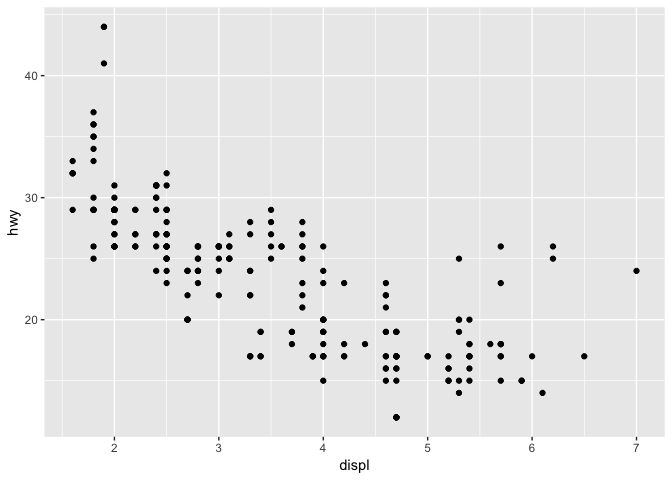
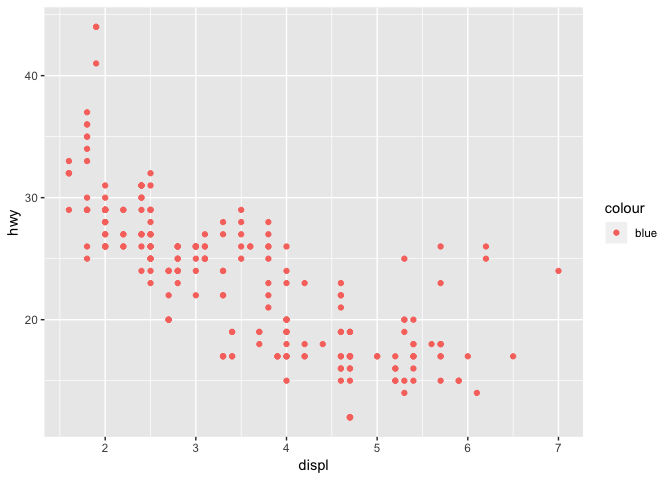
Did exercises up to right before section 3.4

diff --git a/ch1_explore/R_DS_CH1.md b/ch1_explore/R_DS_CH1.md
@@ -2,60 +2,93 @@ R Data Science Chapter 1
 ================
 Shaun Jackson
 
--   [Data visualisation](#data-visualisation)
-    -   [Data we are working with](#data-we-are-working-with)
-    -   [Plotting `mpg` by putting `displ` on the x-axis and `hwy` on the y-axis:](#plotting-mpg-by-putting-displ-on-the-x-axis-and-hwy-on-the-y-axis)
+-   [Prerequisites](#prerequisites)
+-   [3.2.4 Exercise Solutions](#exercise-solutions)
+-   [3.3.1 Exercise](#exercise)
 
-The below notes are from Hadley Wickham's R for Data Science. This is a summary of my main takeaways from the sections that I thought were the most important
+The below notes are from Hadley Wickham's R for Data Science.
 
-Data visualisation
-==================
+My Notes are organized as follows:
 
--   The section of the book teaches us how to use ggplot2. In order to make sure all the required packages are available:
+1.  Exercise Solutions
+
+2.  Summary of the chapter and my main takeaways
+
+Prerequisites
+=============
+
+To start, we must make sure we have the **tidyverse** package loaded into our environment.
 
 ``` r
 library(tidyverse)
 ```
 
-Data we are working with
-------------------------
+Loading the tidyverse package will provide us with `mpg`, a tibble that will enable our analyses.
 
-We are using the **mpg** dataframe that is found within ggplot2.
+3.2.4 Exercise Solutions
+========================
 
-``` r
-mpg
-```
+1.  Run `ggplot(data = mpg)`. What do you see?
 
-    ## # A tibble: 234 x 11
-    ##    manufacturer model displ  year   cyl trans drv     cty   hwy fl    cla…
-    ##    <chr>        <chr> <dbl> <int> <int> <chr> <chr> <int> <int> <chr> <ch>
-    ##  1 audi         a4      1.8  1999     4 auto… f        18    29 p     com…
-    ##  2 audi         a4      1.8  1999     4 manu… f        21    29 p     com…
-    ##  3 audi         a4      2    2008     4 manu… f        20    31 p     com…
-    ##  4 audi         a4      2    2008     4 auto… f        21    30 p     com…
-    ##  5 audi         a4      2.8  1999     6 auto… f        16    26 p     com…
-    ##  6 audi         a4      2.8  1999     6 manu… f        18    26 p     com…
-    ##  7 audi         a4      3.1  2008     6 auto… f        18    27 p     com…
-    ##  8 audi         a4 q…   1.8  1999     4 manu… 4        18    26 p     com…
-    ##  9 audi         a4 q…   1.8  1999     4 auto… 4        16    25 p     com…
-    ## 10 audi         a4 q…   2    2008     4 manu… 4        20    28 p     com…
-    ## # ... with 224 more rows
+    -   Running `ggplot(data = mpg)` produces not output that I can see. It looks like a blank graph.
 
--   Note: mpg is a tibble. Tibbles are
+2.  How many rows are in `mpg`? How many columns?
 
-> "a modern reimagining of the data.frame." "Tibbles are data.frames that are lazy and surly: they do less" "and complain more." - from <https://tibble.tidyverse.org>
+    -   There are 234 rows and 11 columns. (Used `nrow()` and `ncol()`).
 
-Plotting `mpg` by putting `displ` on the x-axis and `hwy` on the y-axis:
-------------------------------------------------------------------------
+3.  What does the `drv` variable describe?
 
-``` r
-ggplot(data = mpg) +
-  geom_point(mapping = aes(x = displ, y = hwy))
-```
+    -   After `?mpg`, the values "f = front-wheel drive, r = rear wheel drive, 4 = 4wd". They describe a way to group the cars.
 
-![](R_DS_CH1_files/figure-markdown_github/unnamed-chunk-3-1.png)
+4.  Make a scatterplot of `hwy` vs `cyl`.
 
-In the above plot,
+    ``` r
+    ggplot(mpg, aes(x = hwy, y = cyl)) + geom_point()
+    ```
 
--   `geom_point()` produces points on the graph.
--   Define x and y axes by setting the x and y parameters within the aesthetic function `aes()` to `x = displ` and `y = hwy`.
+    ![](R_DS_CH1_files/figure-markdown_github/unnamed-chunk-2-1.png)
+
+5.  What happens if you make a scatterplot? Why is the plot not useful?
+
+    -   The plot is not useful because the scales of the coordinate axes and the points do not have any clear correlations.
+
+3.3.1 Exercise
+==============
+
+1.  What's gone wrong with this code? Why are points not blue?
+
+    ``` r
+    ggplot(data = mpg) +
+      geom_point(mapping = aes(x = displ, y = hwy, color = "blue"))
+    ```
+
+    ![](R_DS_CH1_files/figure-markdown_github/unnamed-chunk-3-1.png)
+
+    -   The above code does not change the appearance of the plot. Instead, it changes the aesthetics layer of ggplot. To be more clear, the **value** of blue is assigned to all rows in the dataset, and being plotted with that characteristic. The appearance of the plot is not changed, the data is being processed, grouping all variables in the plot with a value of blue. In order to change the appearance, the data must **first** be plotted, and then the color can be assigned *outside* of the `aes()` function.
+
+2.  Which variables in `mpg` are categorical? Which variables are continuous?
+
+    -   The categorical variables in `mpg` are `model`, `year`, `cyl`, `trans`, `drv`, `fl`, and `class`.
+
+3.  Map a continuous variable to `color`, `size`, and `shape`. How do these aesthetics behave differently for categorical vs. continuous variables?
+
+    ``` r
+    ggplot(mpg) + geom_point(aes(x = displ, y = hwy, color = cty))
+    ```
+
+    ![](R_DS_CH1_files/figure-markdown_github/unnamed-chunk-4-1.png)
+
+    ``` r
+    ggplot(mpg) + geom_point(aes(x = displ, y = hwy, size = cty))
+    ```
+
+    ![](R_DS_CH1_files/figure-markdown_github/unnamed-chunk-4-2.png)
+
+    -   inputting a continuous variable for `color` and `size` causes `ggplot` to define a *spectrum* of possible layers of colors and sizes. This is shown in the added legend of the graph.
+    -   inputting a continuous variable for `shape` causes an error since there is no spectrum of shapes that can satisfy the amount of values in a continuous variable
+
+4.  What happens if you map the same variable to multiple aesthetics?
+
+5.  What does the `stroke` aesthetic do? What shapes does it work with? (Hint: use ?geom\_point)
+
+6.  What happens if you map an aesthetic to something other than a variable name, like `aes(colour = displ < 5)`? Note, you’ll also need to specify x and y.
